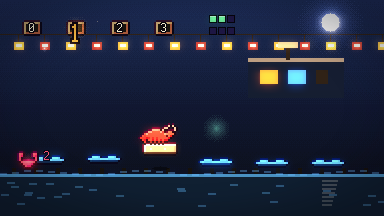
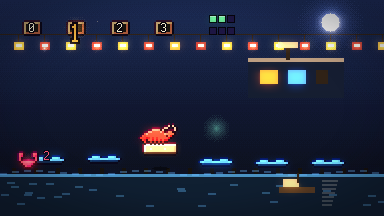
feat: add motion to the canyon, gorge, ring, and pier (#48)
虾罩 drips and glints. 虾拨 drops pebbles past cliff lanterns. 虾节
fills the ring with a crowd and cycles the phrase. 虾数 flickers its
lanterns and runs a boat along the channel.

diff --git a/web/src/games/claw-beat.ts b/web/src/games/claw-beat.ts
@@ -112,9 +112,21 @@ function createScene(): GameScene<BeatState> {
     draw(f) {
       const { g, t, state } = f;
       g.drawImage(dojo(), 0, 0);
+      for (let i = 0; i < 7; i += 1) {
+        const x = 28 + i * 52;
+        const bob = Math.round(Math.sin(t * 2.2 + i) * 2);
+        rect(g, x, 108 + bob, 12, 18, i % 2 ? '#2a1820' : '#1a2430');
+        rect(g, x + 2, 104 + bob, 8, 5, i % 2 ? '#ff5d73' : '#7ec8ff');
+      }
+      for (const lx of [52, 332]) {
+        const swing = Math.round(Math.sin(t * 1.8 + lx) * 3);
+        rect(g, lx, 8, 1, 18, '#3a2414');
+        rect(g, lx - 4 + swing, 26, 8, 6, '#ffc24a');
+        glow(g, lx + swing, 28, 10, '#ffc24a', 0.4);
+      }
       const step = (Math.floor(t * 4) % 2) as 0 | 1;
       const blink = Math.floor(t * 2) % 8 === 0;
-      const lead = state.phrase[0] ?? 'rest';
+      const lead = state.phrase[Math.floor(t * 2) % 4] ?? 'rest';
       const you = fighter(lead, step, blink);
       const foe = buildSprite(CRAB);
       const lunge = f.since < 0.25 && hitT > 0 ? 10 : 0;

diff --git a/web/src/games/claw-flip.ts b/web/src/games/claw-flip.ts
@@ -92,6 +92,16 @@ function createScene(): GameScene<FlipState> {
       const { g, t, state } = f;
       g.drawImage(cliffs(), 0, 0);
       godRays(g, t, '#c8ffd8', 3, 0.05);
+      for (let i = 0; i < 7; i += 1) {
+        const y = (Math.floor(t * 28 + i * 19) % 130) + 12;
+        rect(g, 176 + (i % 3) * 5, y, 2, 2, i % 2 ? '#9ec8ff' : '#c4a888');
+      }
+      for (const lx of [40, 344]) {
+        const swing = Math.round(Math.sin(t * 2 + lx) * 2);
+        rect(g, lx, 48, 1, 14, '#3a2414');
+        rect(g, lx - 4 + swing, 62, 8, 6, '#ffc24a');
+        glow(g, lx + swing, 64, 8, '#ffc24a', 0.35);
+      }
       fog(g, t, 128, 22, '#9ec8ff', 0.22, 8);
       for (let x = 0; x < VW; x += 16) {
         const y = 166 + Math.round(Math.sin(t * 1.6 + x * 0.05) * 2);

diff --git a/web/src/games/claw-count.ts b/web/src/games/claw-count.ts
@@ -94,6 +94,14 @@ function createScene(): GameScene<CountState> {
       g.drawImage(bridge(), 0, 0);
       stars(g, t, 2, 6, 52);
       moon(g, 330, 22, 9, '#fff6dc', '#9eb4ff');
+      for (let x = 18; x < VW; x += 26) {
+        glow(g, x, 46, 7, '#ffc24a', 0.2 + 0.25 * Math.sin(t * 7 + x));
+      }
+      const boatX = 268 + Math.round(Math.sin(t * 0.6) * 12);
+      const boatY = 186 + Math.round(Math.sin(t * 1.4) * 1);
+      rect(g, boatX, boatY, 36, 6, '#6a4a2a');
+      rect(g, boatX + 4, boatY - 8, 16, 8, '#e8d0a0');
+      rect(g, boatX + 18, boatY - 14, 2, 10, '#3a2414');
       for (let i = 0; i < 7; i += 1) {
         rect(g, 322, 180 + i * 4, 16 - i, 2, withAlpha('#fff6dc', 0.28));
       }

diff --git a/web/src/games/claw-mask.ts b/web/src/games/claw-mask.ts
@@ -68,6 +68,12 @@ function createScene(): GameScene<MaskState> {
     draw(f) {
       const { g, t, state } = f;
       g.drawImage(walls(), 0, 0);
+      for (let i = 0; i < 8; i += 1) {
+        const x = 48 + i * 40;
+        const fall = Math.floor(t * 16 + i * 9) % 36;
+        rect(g, x, 6 + fall, 2, 3, '#7ec8ff');
+        glow(g, x + 8, 22, 5, '#c49aff', 0.15 + 0.2 * Math.sin(t * 3 + i));
+      }
       kelp(g, 26, 168, 28, t, '#3a2860');
       kelp(g, 350, 168, 34, t, '#145060');
       const crystal = buildSprite(CRYSTAL);

diff --git a/docs/plans/2026-11-15-art-pass.md b/docs/plans/2026-11-15-art-pass.md
@@ -1,0 +1,18 @@
+# Art pass — 虾罩, 虾拨, 虾节, 虾数
+
+## Goal
+
+Played on the live site after #42. These four are still the thinnest pictures against the original games: a flat canyon, a still gorge, an empty ring, and lanterns that do not burn. Add environment motion and hit effects. Engines stay.
+
+## Scope
+
+- 虾罩: ceiling drips and crystal glints over the two strata.
+- 虾拨: pebbles in the fall and lanterns on the cliffs.
+- 虾节: a crowd, swinging lanterns, and a fighter who cycles the phrase.
+- 虾数: lantern flicker and a boat on the channel.
+
+## Checklist
+
+- [x] Four scenes
+- [x] Covers and a dev-server look
+- [x] lint and typecheck

diff --git a/CHANGELOG.md b/CHANGELOG.md
@@ -2,6 +2,10 @@
 
 ## Unreleased
 
+- `虾罩` drips from the ceiling and glints its crystals. `虾拨` drops
+  pebbles through the fall and hangs lanterns on the cliffs. `虾节` fills
+  the ring with a crowd and swinging lanterns, and the fighter cycles the
+  phrase. `虾数` flickers the pier lanterns and puts a boat on the channel.
 - `虾熔` shows which way the next tide pushes, and how many drops are left
   before it. `虾网` draws a tear as a hole and a wet knot as a drip. `虾钟`
   draws you at the same size as a foe, and marks the opposite slot of a swap.

diff --git a/docs/plans/README.md b/docs/plans/README.md
@@ -3,7 +3,8 @@
 Write a new plan here before a large change: a new game, an engine rewrite, an
 MCP or leaderboard change, or a docs restructure.
 
-Current working plans: [`2026-11-15-tide-knot-you.md`](2026-11-15-tide-knot-you.md),
+Current working plans: [`2026-11-15-art-pass.md`](2026-11-15-art-pass.md),
+[`2026-11-15-tide-knot-you.md`](2026-11-15-tide-knot-you.md),
 [`2026-11-15-path-read.md`](2026-11-15-path-read.md),
 [`2026-11-15-window-ring.md`](2026-11-15-window-ring.md),
 [`2026-11-15-raft-stow-feel.md`](2026-11-15-raft-stow-feel.md),
